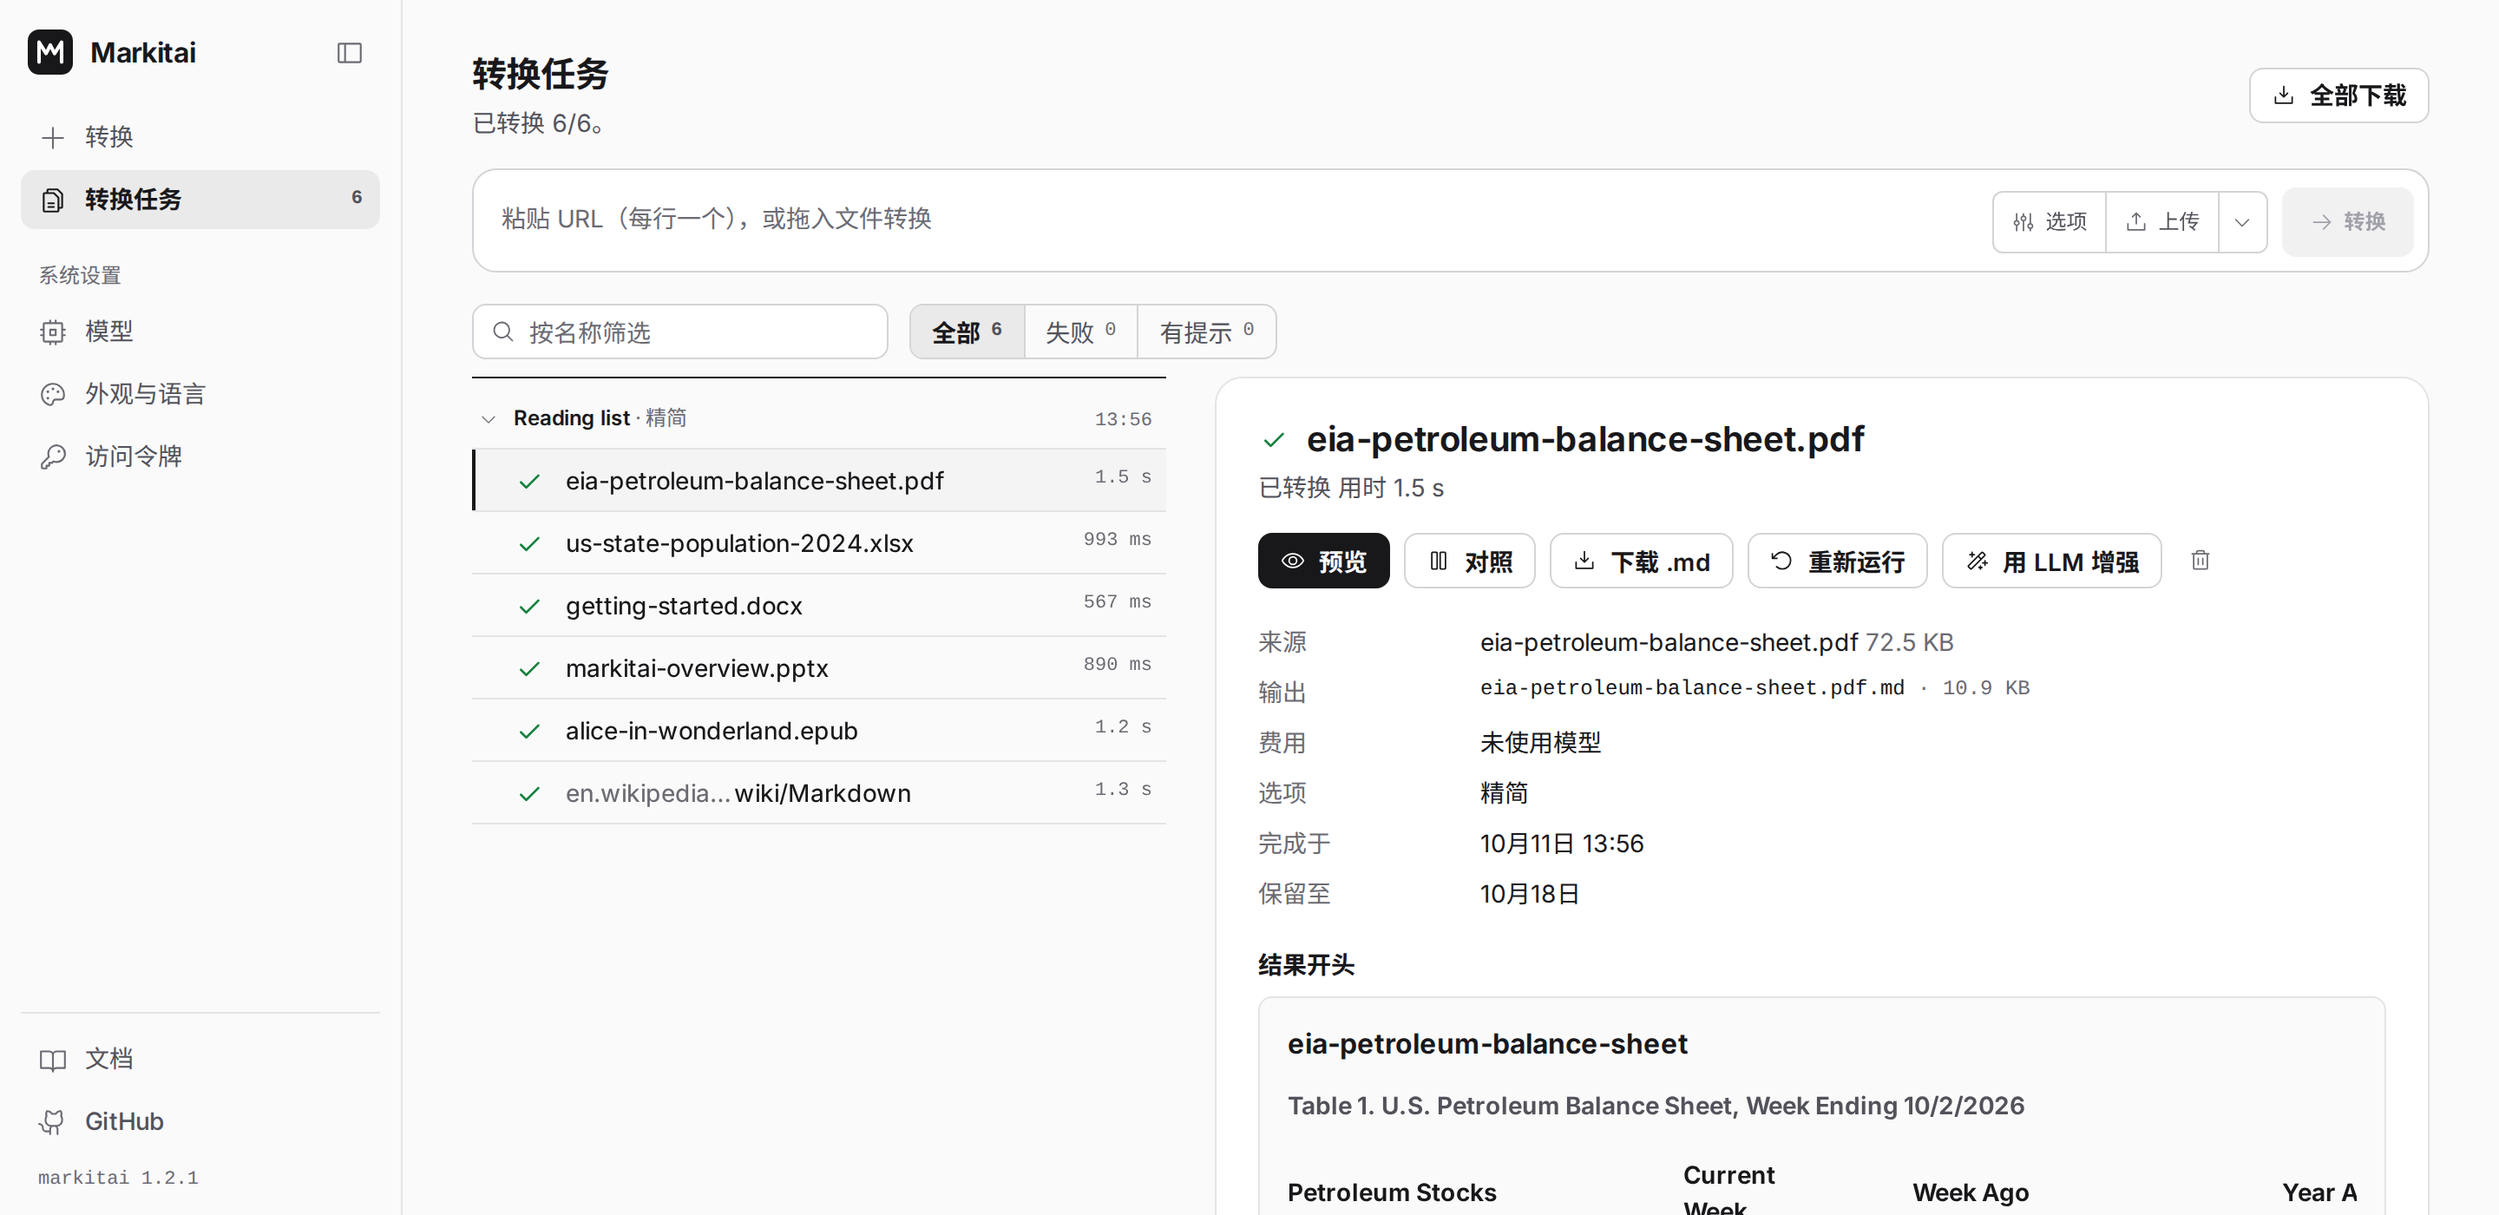
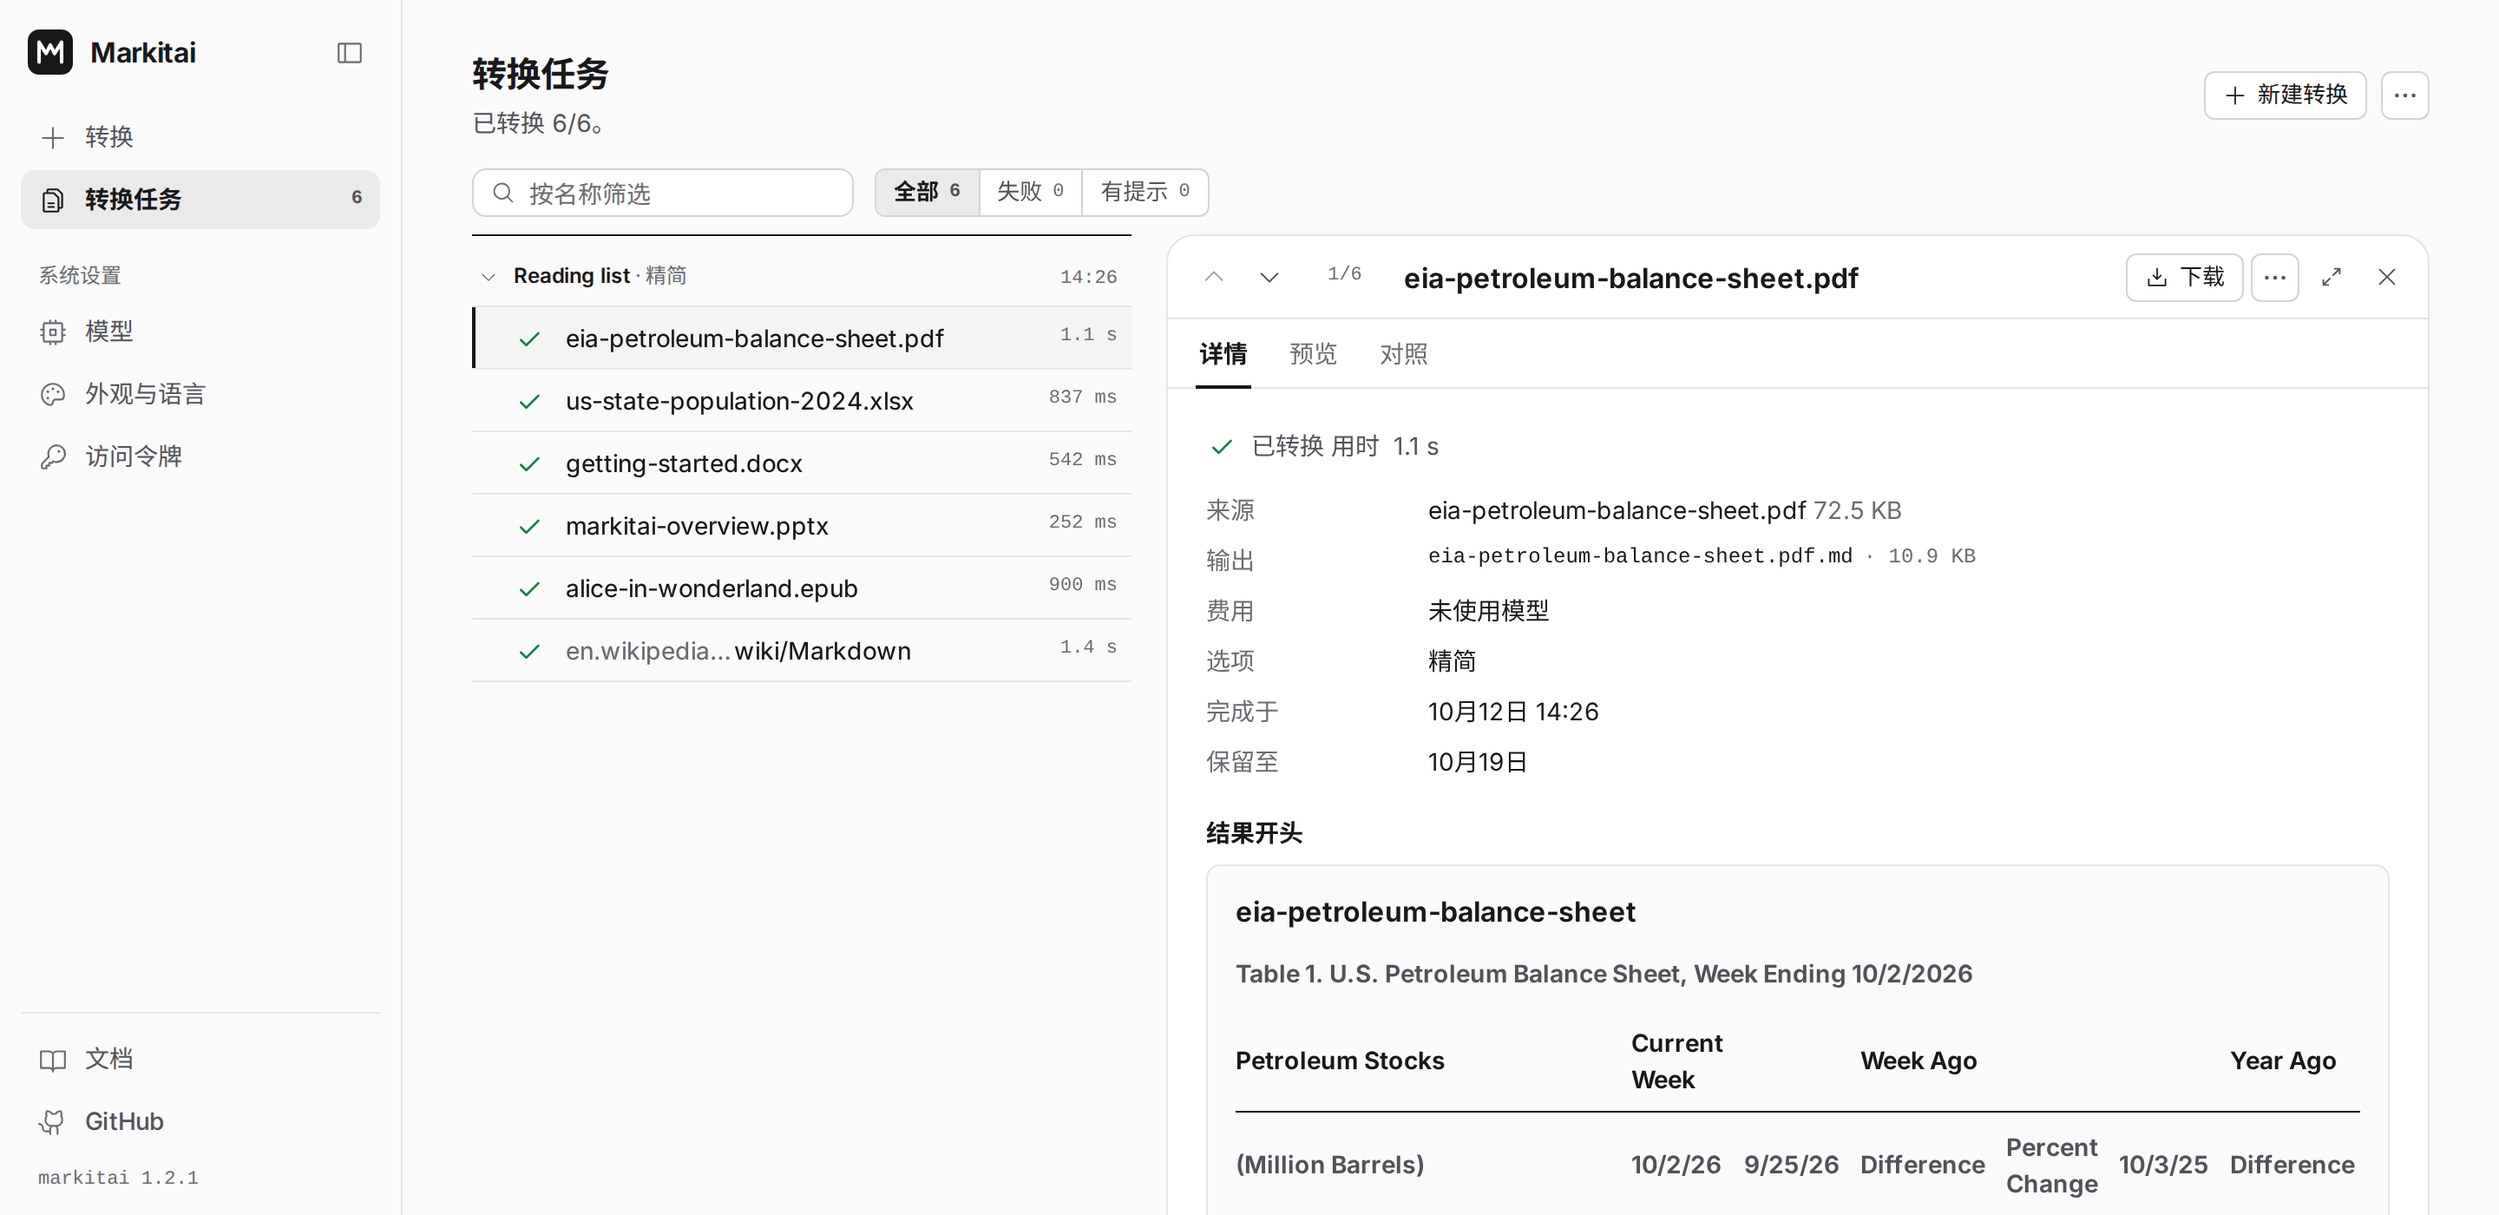
docs(website): workbench screenshots show the conversion window
The home page and serve guide screenshots (light and dark, English and
Chinese, 1440x700 at 2x) still showed the docked inspector of the bundle
before 5306037. They are retaken on workbench bcdc180 with the same
composition, now the conversion window docked beside the list (◫):
Conversions with New conversion and "⋯", the "Reading list" submission
(Minimal), and the EIA PDF open on its Details tab with the start of
its result. The same server's centred window (Details, Preview) was shot
too; the docked one keeps the page's composition.

Inputs, unchanged from the previous retake (SHA256SUMS checked), all
safe to publish:

- eia-petroleum-balance-sheet.pdf, the selected item: U.S. Energy
  Information Administration, Weekly Petroleum Status Report, Table 1,
  released October 7, 2026,
  https://www.eia.gov/petroleum/supply/weekly/pdf/table1.pdf. Public
  domain (eia.gov/about/copyrights_reuse.php).
- us-state-population-2024.xlsx: U.S. Census Bureau, NST-EST2024-POP,
  Vintage 2024,
  https://www2.census.gov/programs-surveys/popest/tables/2020-2024/state/totals/NST-EST2024-POP.xlsx.
  A U.S. government work (17 U.S.C. 105); author fields blanked.
- alice-in-wonderland.epub: Lewis Carroll, Alice's Adventures in
  Wonderland, Project Gutenberg eBook #11,
  https://www.gutenberg.org/ebooks/11 (public domain in the USA).
- getting-started.docx and markitai-overview.pptx: markitai's own docs
  and README, built with pandoc 3.7 (MIT, this repository).
[…]

diff --git a/website/guide/serve.md b/website/guide/serve.md
@@ -4,8 +4,8 @@
 
 Everything runs on your machine. Jobs and history live on disk, and nothing leaves the host except what you send to the fetch strategies and LLM providers you configure.
 
-![The markitai web workbench: a sidebar with Convert, Conversions and Settings, the list of converted files grouped by submission, and an inspector showing the selected file's status, sizes, cost and options.](/workbench.png){.light-only}
-![The markitai web workbench: a sidebar with Convert, Conversions and Settings, the list of converted files grouped by submission, and an inspector showing the selected file's status, sizes, cost and options.](/workbench.dark.png){.dark-only}
+![The markitai web workbench: a sidebar with Convert, Conversions and Settings, the list of converted files grouped by submission, and the selected file's window docked beside it, open on its Details tab with status, sizes, cost, options and the start of the result.](/workbench.png){.light-only}
+![The markitai web workbench: a sidebar with Convert, Conversions and Settings, the list of converted files grouped by submission, and the selected file's window docked beside it, open on its Details tab with status, sizes, cost, options and the start of the result.](/workbench.dark.png){.dark-only}
 
 ## Starting the Server
 
@@ -50,17 +50,17 @@ The token URL is a credential. Anyone holding it can run conversions with your L
 
 ## The Workspace
 
-The sidebar has three places: **Convert**, **Conversions** and **Settings** (Models, Appearance and language, Access token). On a phone they move to a bar at the bottom, and details open as sheets.
+The sidebar has three places: **Convert**, **Conversions** and **Settings** (Models, Appearance and language, Access token). On a phone they move to a bar at the bottom, and a conversion opens full screen.
 
 - **Composer**: paste URLs (one per line), drop files or a folder, or use **Upload** (its menu also picks a folder). Files are staged until you press **Convert**, with upload progress, and can be combined with URLs in one submission. A `.urls` file is read as a list of URLs, as on the command line. URLs are checked before anything is sent.
 - **Options**: nothing is asked by default. **Options** holds the preset, Enhance (LLM, OCR, image analysis), Output (profile) and Advanced (fetch strategy, files backend, cache, compression), with the equivalent command line ready to copy.
-- **Conversions**: one list of every item, grouped by submission (named after the folder or `.urls` list it came from). It updates live; filter it by name or by All, Failed and Notices. **Stop remaining** stops the items of a running submission that have not started; the ones already converting finish, and stopped items can be retried later. A notification fires when a submission finishes in a background tab.
-- **Inspector**: select an item to see its status, the sizes of its source and output, the models used and the cost, its options, how long it is kept and its notices, with the start of the result. From there: **Preview**, **Compare**, **Download .md**, **Run again** or **Retry**, **Enhance with LLM**, or delete it. Retry is not offered for a file type markitai cannot convert. When an action on the item fails (a Retry the server refuses, say), the inspector says so at its top.
+- **Conversions**: one list of every item, grouped by submission (named after the folder or `.urls` list it came from). It updates live; filter it by name or by All, Failed and Notices. **New conversion** leads back to Convert, and "⋯" holds **Retry failed** and **Download all**. **Stop remaining** stops the items of a running submission that have not started; the ones already converting finish, and stopped items can be retried later. On a phone it stays in the header of the full-screen window that covers the list. A notification fires when a submission finishes in a background tab.
+- **The conversion window**: click an item (or press Enter on it) to open it in a window over the list, with three tabs: **Details**, **Preview** and **Compare**. ↑/↓ or the arrows in its header move to the previous or next item, **C** switches to Compare and Escape closes it. ◫ docks it beside the list instead, and the list's arrows then move the selection with the window following (each browser keeps the choice; **Open as a window** goes back); on a phone it fills the screen. **Details** shows the item's status, the sizes of its source and output, the models used and the cost, its options, how long it is kept and its notices, with the start of the result. The header has **Download** and, when it is the fix, **Retry**; "⋯" holds **Enhance with LLM**, **Run again** and Delete. Retry is not offered for a file type markitai cannot convert. When an action on the item fails (a Retry the server refuses, say), Details says so at its top.
 - **Cost**: a cost is shown only when it is known. When the provider has no price for a model, the item says the cost is unknown instead of `$0`, and when only some requests were priced it shows "at least" that amount.
-- **Preview**: the result opens beside the list (**F** for full width), with Rendered, Source, Files and, for LLM-enhanced items, Diff against the unenhanced Markdown, plus Export PDF with an optional header and footer. Large tables show their first 500 rows at once (**Show all rows** adds the rest); code blocks are highlighted.
+- **Preview**: the window's second tab, with Rendered, Source, Files and, for LLM-enhanced items, Diff against the unenhanced Markdown; its "⋯" adds Copy and Export PDF with an optional header and footer. Large tables show their first 500 rows at once (**Show all rows** adds the rest); code blocks are highlighted.
 - **Compare**: shows the original next to the Markdown: the pages of a PDF (hover a heading or table in the Markdown to outline it on the page), an image, an HTML or text document, or the page screenshots a conversion saved (Office files, web pages). Formats a browser cannot show offer **Download the original** instead; URL items keep no copy of the page.
-- **Notices**: things that don't fail an item but are worth acting on (pages that look scanned, hidden PDF text that may be a prompt injection, OCR that found no text, slides that couldn't be rendered, a URL screenshot that wasn't captured, images whose analysis failed and kept their original alt text, an LLM enhancement that failed and left the unenhanced result) are counted on the item and listed in its inspector; repeats of one notice are grouped. Each item gets only its own notices, and they stay with the job in history.
-- **Downloads**: single files, a submission's zip, or everything with **Download all**.
+- **Notices**: things that don't fail an item but are worth acting on (pages that look scanned, hidden PDF text that may be a prompt injection, OCR that found no text, slides that couldn't be rendered, a URL screenshot that wasn't captured, images whose analysis failed and kept their original alt text, an LLM enhancement that failed and left the unenhanced result) are counted on the item and listed in its Details; repeats of one notice are grouped. Each item gets only its own notices, and they stay with the job in history.
+- **Downloads**: single files, a submission's zip, or everything with **Download all** (in the Conversions "⋯").
 - **Limits**: 1000 items per job, 100 MB per uploaded file and 5 GB per upload.
 
 ### Presets, Overrides and Commands
@@ -89,11 +89,11 @@ A key is tied to the address it was saved with, so the settings page never sends
 
 A connection saved here without a key while it names an address (a local server, a gateway) stores the placeholder key `markitai-no-key`, which no server accepts as a credential: without it, LiteLLM would read the server's own key variable (`OPENAI_API_KEY`, `GROQ_API_KEY`, ...) and send it to that address. A server that checks no key (LM Studio, vLLM, llama.cpp) works with it; the settings page shows such a connection as having no key. A connection with a key cannot be turned into one without a key at another address (HTTP 422): add a new connection for that server. Entries you write in the config file yourself are unchanged: one without `api_key` still uses the provider's key variable from the environment.
 
-Vertex AI (and watsonx and GigaChat) sign in with the server's own login, not a key: Google's application default credentials (`gcloud auth application-default login`, `GOOGLE_APPLICATION_CREDENTIALS`), `WATSONX_TOKEN`, `GIGACHAT_ACCESS_TOKEN`. LiteLLM sends that login to whatever address the entry names, so the settings page saves and tests these models only without an address, at the provider's own endpoint (HTTP 422 otherwise); a private endpoint goes in the config file. Amazon Bedrock may take an address: without a key it sends the placeholder there, never the server's AWS credentials.
+Vertex AI (and watsonx and GigaChat) sign in with the server's own login, not a key: Google's application default credentials (`gcloud auth application-default login`, `GOOGLE_APPLICATION_CREDENTIALS`), `WATSONX_TOKEN`, `GIGACHAT_ACCESS_TOKEN`. LiteLLM sends that login to whatever address the entry names, so the settings page saves and tests these models only without an address, at the provider's own endpoint (HTTP 422 otherwise): **Add models** shows Vertex AI without an address field, with a note that it uses the server's Google login; a private endpoint goes in the config file. Amazon Bedrock may take an address: without a key it sends the placeholder there, never the server's AWS credentials.
 
 ## History
 
-Finished jobs stay under `~/.markitai/serve/jobs/` for 7 days after they finish (the inspector shows the date); expired jobs disappear from the list at once and their files are deleted within the hour. They stay in **Conversions** after a reload or a restart: reopen them, download their outputs again, retry or enhance their items, delete them, or download everything as one zip.
+Finished jobs stay under `~/.markitai/serve/jobs/` for 7 days after they finish (its Details tab shows the date); expired jobs disappear from the list at once and their files are deleted within the hour. They stay in **Conversions** after a reload or a restart: reopen them, download their outputs again, retry or enhance their items, delete them, or download everything as one zip.
 
 CLI runs started with [`--record-history`](/guide/cli#record-history) show up here too, marked with a CLI badge. You can open, download and delete them like any other job, and retry or LLM-enhance their URL items. File items from a CLI run can't be retried or enhanced here, because the run keeps only the outputs and not the original file; run the CLI on the file again instead.
 

diff --git a/website/zh/index.md b/website/zh/index.md
@@ -21,11 +21,11 @@ hero:
   <p><code>markitai serve</code> 把同一套转换内核放进本地网页界面。拖入文件、粘贴 URL、看进度，对照原件逐条检查结果，再全部下载。</p>
   <picture class="home-shot-light">
     <source srcset="/workbench.zh.webp" type="image/webp" />
-    <img src="/workbench.zh.png" alt="markitai 网页工作台：左侧栏有「转换」「转换任务」和「系统设置」，中间是按提交分组的已转换文件列表，右侧检查面板显示所选文件的状态、大小、费用和选项。" width="1440" height="700" loading="lazy" />
+    <img src="/workbench.zh.png" alt="markitai 网页工作台：左侧栏有「转换」「转换任务」和「系统设置」，中间是按提交分组的已转换文件列表，所选文件的窗口停靠在列表右侧，打开在「详情」标签，显示状态、大小、费用、选项和结果开头。" width="1440" height="700" loading="lazy" />
   </picture>
   <picture class="home-shot-dark">
     <source srcset="/workbench.zh.dark.webp" type="image/webp" />
-    <img src="/workbench.zh.dark.png" alt="markitai 网页工作台：左侧栏有「转换」「转换任务」和「系统设置」，中间是按提交分组的已转换文件列表，右侧检查面板显示所选文件的状态、大小、费用和选项。" width="1440" height="700" loading="lazy" />
+    <img src="/workbench.zh.dark.png" alt="markitai 网页工作台：左侧栏有「转换」「转换任务」和「系统设置」，中间是按提交分组的已转换文件列表，所选文件的窗口停靠在列表右侧，打开在「详情」标签，显示状态、大小、费用、选项和结果开头。" width="1440" height="700" loading="lazy" />
   </picture>
   <p class="home-shot-link"><a href="/zh/guide/serve">了解网页工作台 <span aria-hidden="true">→</span></a></p>
 </section>

diff --git a/website/index.md b/website/index.md
@@ -21,11 +21,11 @@ hero:
   <p><code>markitai serve</code> puts the same conversion core behind a local web UI. Drop files in, paste URLs, watch progress, check each result next to its original, download everything.</p>
   <picture class="home-shot-light">
     <source srcset="/workbench.webp" type="image/webp" />
-    <img src="/workbench.png" alt="The markitai web workbench: a sidebar with Convert, Conversions and Settings, the list of converted files grouped by submission, and an inspector showing the selected file's status, sizes, cost and options." width="1440" height="700" loading="lazy" />
+    <img src="/workbench.png" alt="The markitai web workbench: a sidebar with Convert, Conversions and Settings, the list of converted files grouped by submission, and the selected file's window docked beside it, open on its Details tab with status, sizes, cost, options and the start of the result." width="1440" height="700" loading="lazy" />
   </picture>
   <picture class="home-shot-dark">
     <source srcset="/workbench.dark.webp" type="image/webp" />
-    <img src="/workbench.dark.png" alt="The markitai web workbench: a sidebar with Convert, Conversions and Settings, the list of converted files grouped by submission, and an inspector showing the selected file's status, sizes, cost and options." width="1440" height="700" loading="lazy" />
+    <img src="/workbench.dark.png" alt="The markitai web workbench: a sidebar with Convert, Conversions and Settings, the list of converted files grouped by submission, and the selected file's window docked beside it, open on its Details tab with status, sizes, cost, options and the start of the result." width="1440" height="700" loading="lazy" />
   </picture>
   <p class="home-shot-link"><a href="/guide/serve">Read about the web workspace <span aria-hidden="true">→</span></a></p>
 </section>
